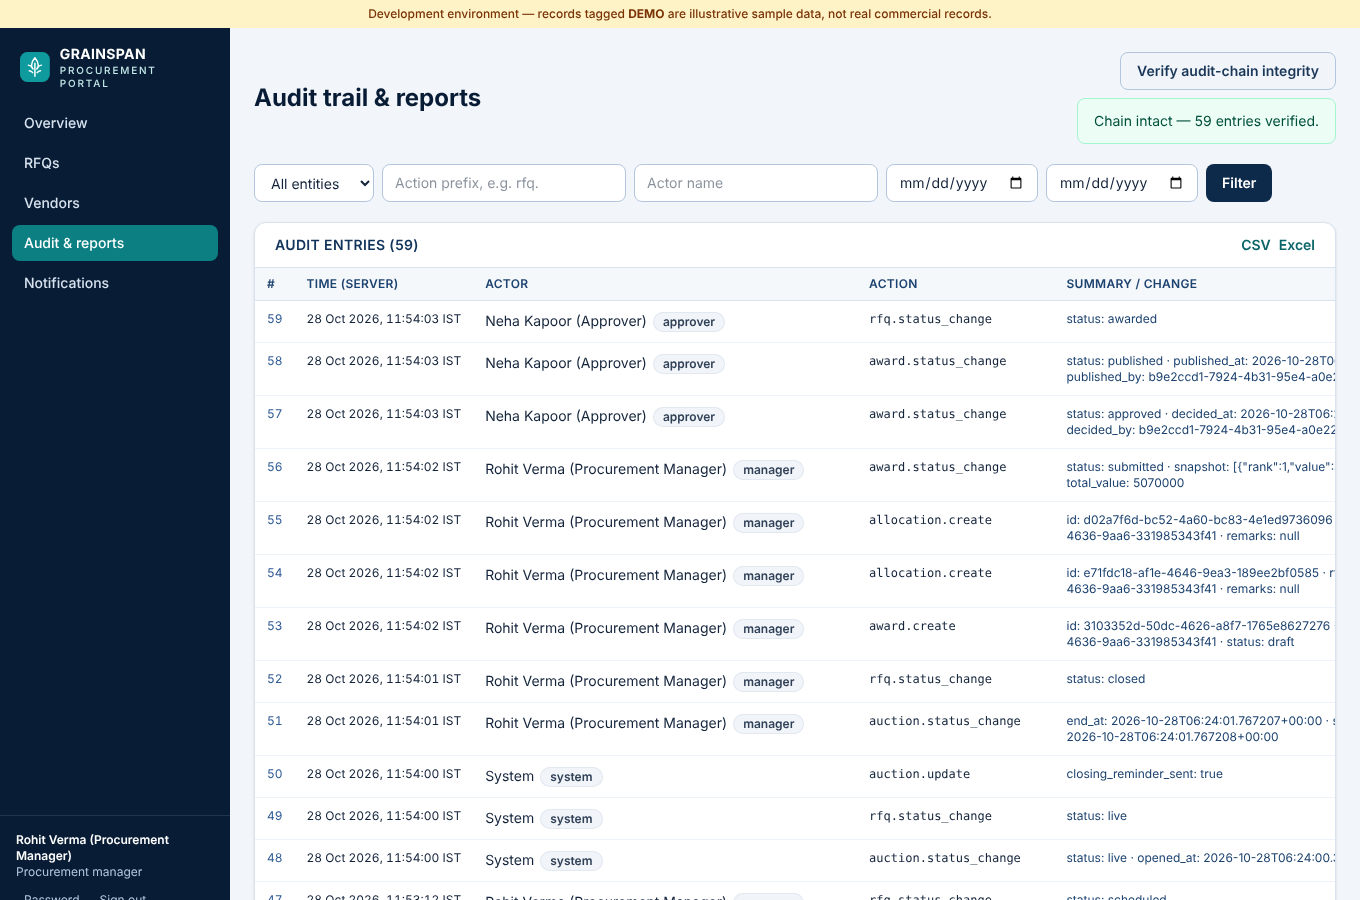
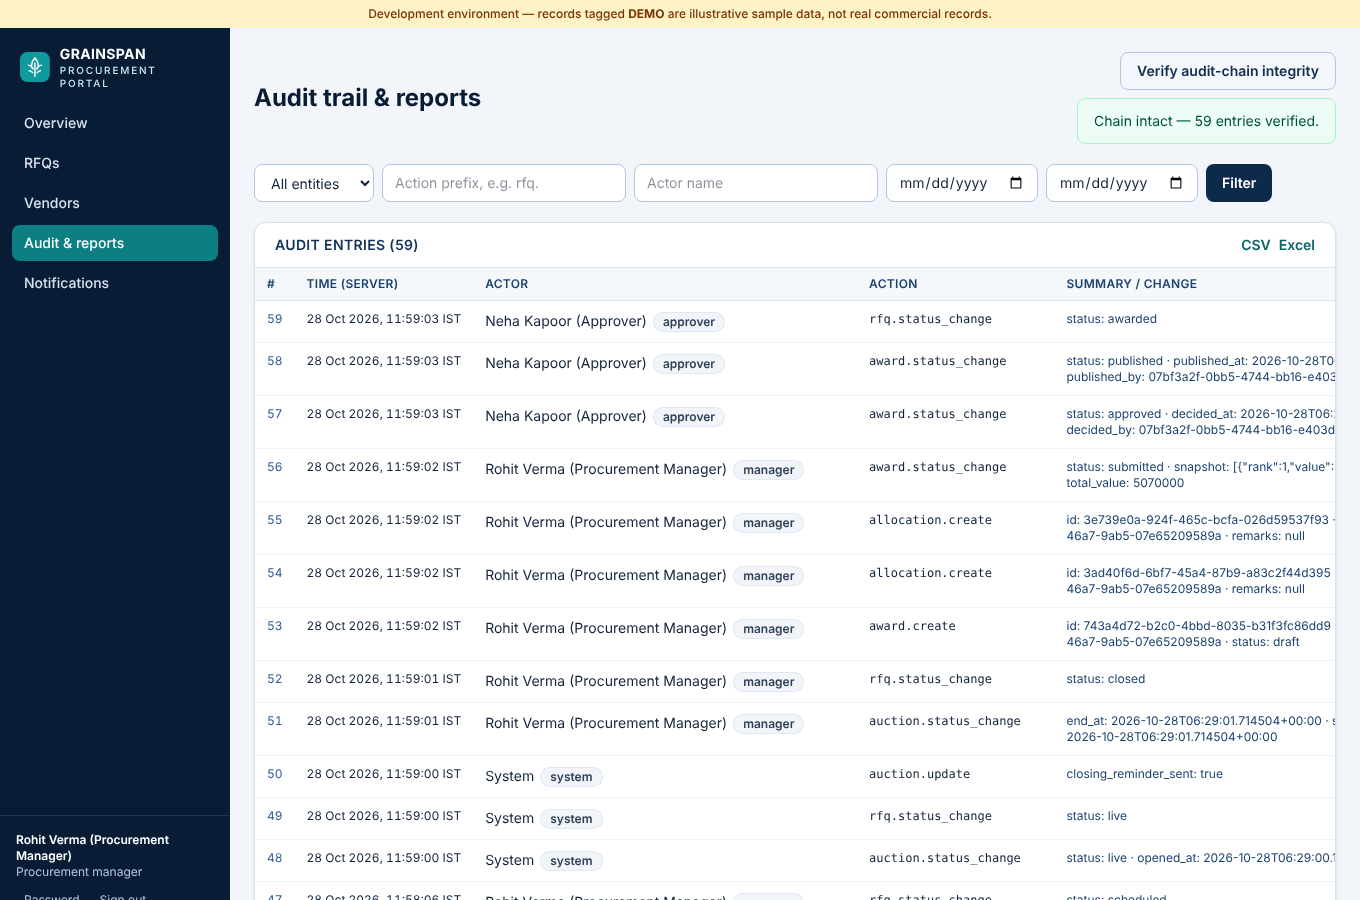
Refresh acceptance-test screenshots; note final-commit E2E result
Claude-Session: https://claude.ai/code/session_01GGW6pg2f8T8pCW4ce2N1Hj

diff --git a/docs/TESTING.md b/docs/TESTING.md
@@ -7,7 +7,7 @@ Run on **2026-10-28**, PostgreSQL 16.15, Node 22.22, Next.js 16.4.3, Chromium 12
 | Type-check (app + tests) | `npm run typecheck` | ✅ clean |
 | Database tests | `npm test` | ✅ **50 / 50** (≈ 6 s) |
 | HTTP tests (fresh DB + real server + mock providers) | `npm run build && npm run test:api` | ✅ **27 / 27** (≈ 60 s) |
-| Browser acceptance test (4 browser contexts) | `npm run test:e2e` | ✅ passed on 2 consecutive final runs after the last change (plus earlier passes) |
+| Browser acceptance test (4 browser contexts) | `npm run test:e2e` | ✅ passed on 3 consecutive runs after the last test fix, the last one on the final commit |
 
 ## The acceptance scenario (browser test)
 
